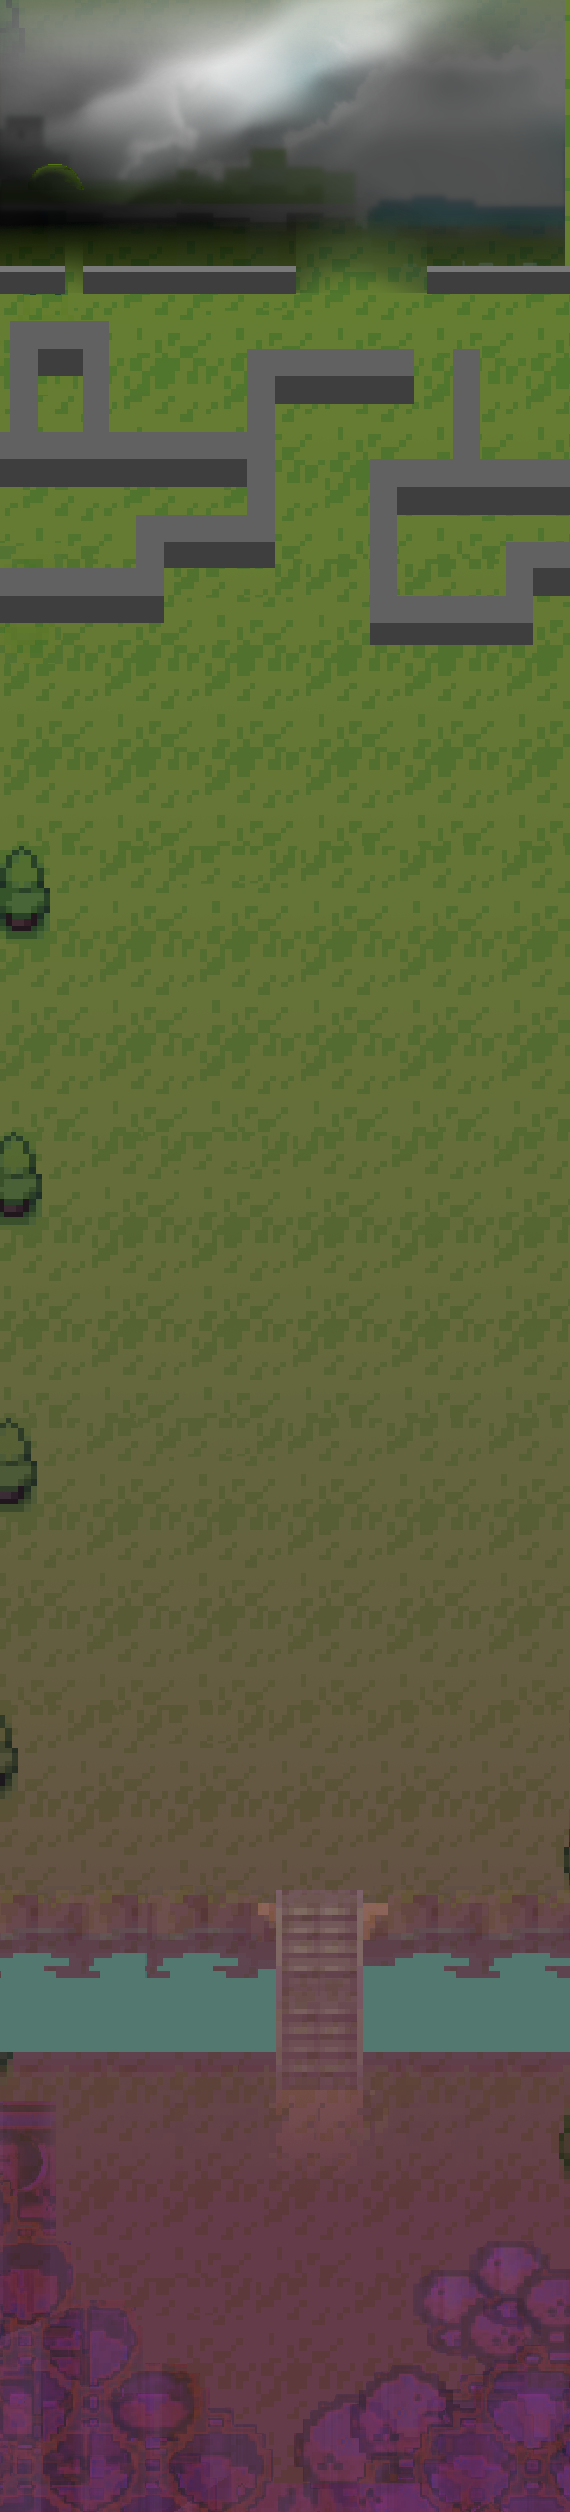
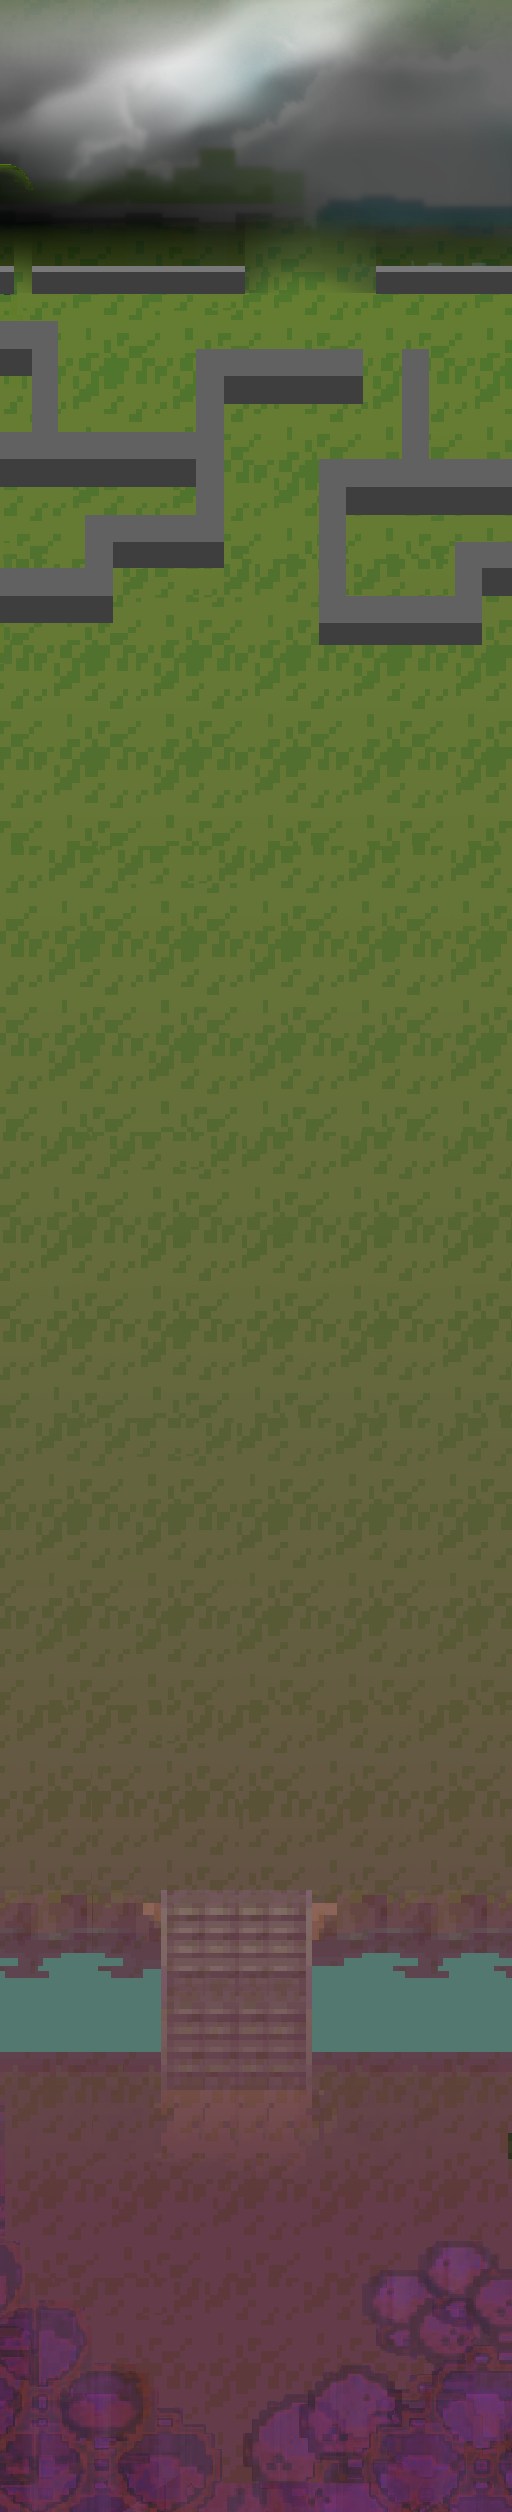
chessboard removed.

diff --git a/src/components/ChessLike/chessLike2.js b/src/components/ChessLike/chessLike2.js
@@ -158,11 +158,17 @@ enText.setAlpha(1);
 
 function create() {
 
-let    gameWidth = this.sys.game.config.width + 100;
- let   gameHeight = this.sys.game.config.height + 100;
+
+    const scene = this;
+    // Calculate the center of the screen
+    const centerX = scene.cameras.main.width / 2;
+    const centerY = scene.cameras.main.height / 2;
+
+
+    let    gameWidth = this.sys.game.config.width + 100;
+    let    gameHeight = this.sys.game.config.height + 100;
     
        overlay = this.add.container(0, 0);
-        const scene = this;
     overlay.setVisible(false); // Initially hide the overlay
         
     const glassbg = this.add.sprite(0, 0, 'glassbg').setOrigin(0);
@@ -182,43 +188,6 @@ glassbg.displayHeight = gameHeight;
         aBtn.setInteractive(); // Make the button interactive
         
         // Create the chessboard
-// Calculate the size of the board
-const boardSize = 9; // Adjust as needed
-const squareSize = 64;
-const boardWidth = squareSize * boardSize;
-const boardHeight = squareSize * boardSize;
-
-// Calculate the center of the screen
-const centerX = scene.scale.width / 2;
-const centerY = scene.scale.height / 2;
-
-// Calculate the position of the board container to center it on the screen
-const boardContainerX =0;
-const boardContainerY = centerY - (boardHeight / 2);
-
-// Create the board container at the calculated position
-const boardContainer = scene.add.container(boardContainerX, boardContainerY);
-        
-        // Rotate the board container 45 degrees (converted to radians)
-        boardContainer.rotation = Math.PI / 4;
-        boardContainer.x += 350;
-        boardContainer.y += 100;
-        boardContainer.setScale(0.75).setDepth(1)
-    
-        
-
-        for (let row = 0; row < boardSize; row++) {
-            for (let col = 0; col < boardSize; col++) {
-                const squareColor = (row + col) % 2 === 0 ?0x9900FF00 : 0x96969696
-                const square = scene.add.rectangle(col * squareSize, row * squareSize, squareSize, squareSize, squareColor);
-                square.setOrigin(0);
-                square.setData('row', row);
-                square.setData('col', col);
-                boardContainer.add(square);
-                square.alpha = 0;
-
-            }
-        }
         
         // Other elements
         const firstWordPair = wordPairs[0];
@@ -241,7 +210,7 @@ const boardContainer = scene.add.container(boardContainerX, boardContainerY);
             stroke: '#000000', // Stroke color
             strokeThickness: 3, // Stroke thickness
         };
-   enText = scene.add.text(posX, posY+100, '', enTextStyle).setOrigin(0).setDepth(9);
+   enText = scene.add.text(posX-64, posY+100, '', enTextStyle).setOrigin(0).setDepth(9);
 
 // Add enText to the overlay container
 overlay.add(enText);
@@ -260,51 +229,17 @@ overlay.add(enText);
         }
         
         // Add puca and player
+        const player = scene.add.image(centerX, centerY + 64, 'player').setScale(1.5).setOrigin(0.5, 0.5).setDepth(5);
         
-        // Add puca and player to the board container
-        const playerSquareRow = 4; // Adjust the row of the player's square
-        const playerSquareCol = 4; // Adjust the column of the player's square
-        
-        // Calculate the player's position with respect to the board
-        const playerX = playerSquareCol * squareSize +32;
-        const playerY = playerSquareRow * squareSize;
-        const player = scene.add.image(playerX, playerY, 'player').setScale(1.5).setOrigin(0.5, 0.5).setDepth(5);
-        boardContainer.add(player);
-// Calculate the position to center the player on the screen
-const playerCenterX = player.x + player.displayWidth / 2;
-// const playerCenterY = player.y + player.displayHeight / 2;
 
-// Center the camera on the player
-// scene.cameras.main.scrollX = playerCenterX - scene.cameras.main.width / 2;
 scene.cameras.main.scrollY = 0;
 
 
 
 
-        player.rotation = -Math.PI / 4;
-        // Add puca and player to the board container
-        const pucaBlackSquareRow =2; // Adjust the row of the left puca's square
-        const pucaBlackSquareCol = 3; // Adjust the column of the left puca's square
-    const pucaBlackX = pucaBlackSquareCol * squareSize+16;
-    const pucaBlackY = pucaBlackSquareRow * squareSize+16;
-    const pucaBlack = scene.add.image(pucaBlackX, pucaBlackY, 'pucaBlack').setScale(0.35).setOrigin(0.5, 0.5).setDepth(5);
-    boardContainer.add(pucaBlack);
-    pucaBlack.setAlpha(0.1); // Reduce opacity for the other 
-
-
-    
-    const pucaWhiteSquareRow = 3; // Adjust the row of the right puca's square
-    const pucaWhiteSquareCol = 2; // Adjust the column of the right puca's square
-    const pucaWhiteX = pucaWhiteSquareCol * squareSize+16;
-    const pucaWhiteY = pucaWhiteSquareRow * squareSize+16;
-    const pucaWhite = scene.add.image(pucaWhiteX, pucaWhiteY, 'pucaWhite').setScale(0.35).setOrigin(0.5, 0.5).setDepth(5);
-    pucaBlack.rotation = -Math.PI / 4;
-    pucaWhite.rotation = -Math.PI / 4;
-    boardContainer.add(pucaWhite);
-    
-    // Center the camera on the middle of the screen
-    // scene.cameras.main.scrollX = boardContainer.x - (scene.cameras.main.width / 2);
-    // scene.cameras.main.scrollY = boardContainer.y - (scene.cameras.main.height / 2);
+    const pucaBlack = scene.add.image(centerX+64, centerY-64, 'pucaBlack').setScale(0.35).setOrigin(0.5, 0.5).setDepth(5);
+    const pucaWhite = scene.add.image(centerX-64, centerY-64, 'pucaWhite').setScale(0.35).setOrigin(0.5, 0.5).setDepth(5);
+    // boardContainer.add(pucaWhite);
     
     let isProcessing = false; // Flag to indicate whether the function is already in progress
     
@@ -419,12 +354,6 @@ function toggleOverlay() {
                         }
                     });
             
-            // these can overrid tic tc puca tempo.
-            //    this.buttonUp.on('pointerdown', () => this.moveElement('up'));
-//    this.buttonDown.on('pointerdown', () => this.moveElement('down'));
-//    this.buttonLeft.on('pointerdown', () => this.moveElement('left'));
-//    this.buttonRight.on('pointerdown', () => this.moveElement('right'));
-// Add the image
 // Add the image
 const circleFrame = this.add.image(0, 0, 'circle9').setOrigin(0).setDepth(2);
 
@@ -453,11 +382,9 @@ circleFrame.setPosition(c9posX, c9posY);
 
 
 
-// Define the height of 3 board squares
-const boardSquareHeight = squareSize * 3;
 
 // Create the image layer
-const tallBg = scene.add.image(scene.cameras.main.width / 2, scene.cameras.main.height-10, 'tallBg').setOrigin(0.4, 1).setScale(1).setDepth(-1);
+const tallBg = scene.add.image(centerX, scene.cameras.main.height-10, 'tallBg').setOrigin(0.4, 1).setScale(1).setDepth(-1);
 
 
 // Animate the image layer to slide down the screen
@@ -475,7 +402,7 @@ function slideDownImageLayer(scene) {
             }
         });
     setTimeout(()=>{
-        pucaBlack.setAlpha(1);
+        pucaBlack.setAlpha(0.1);
         pucaWhite.setAlpha(1);
 
 },800)}
